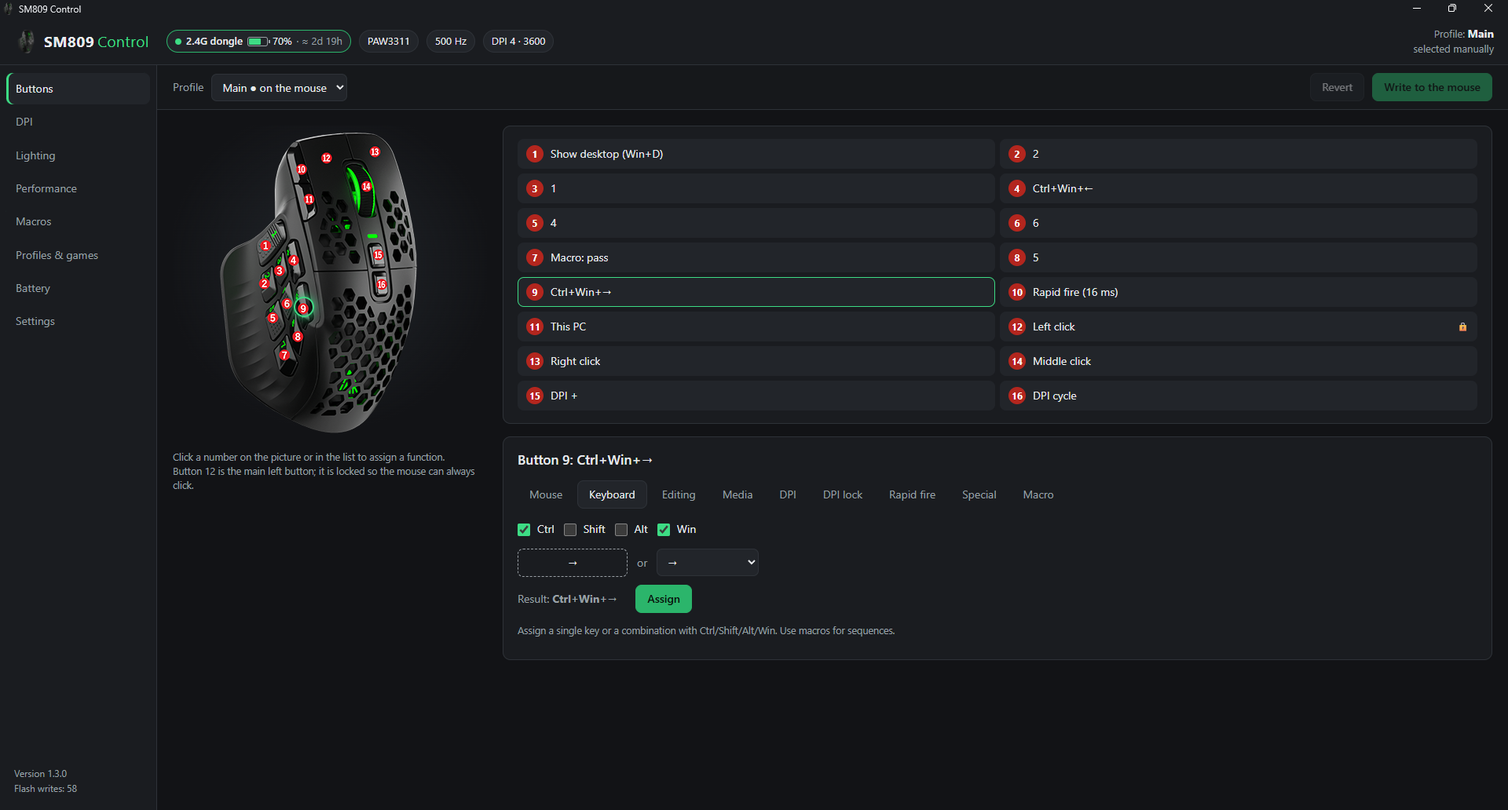
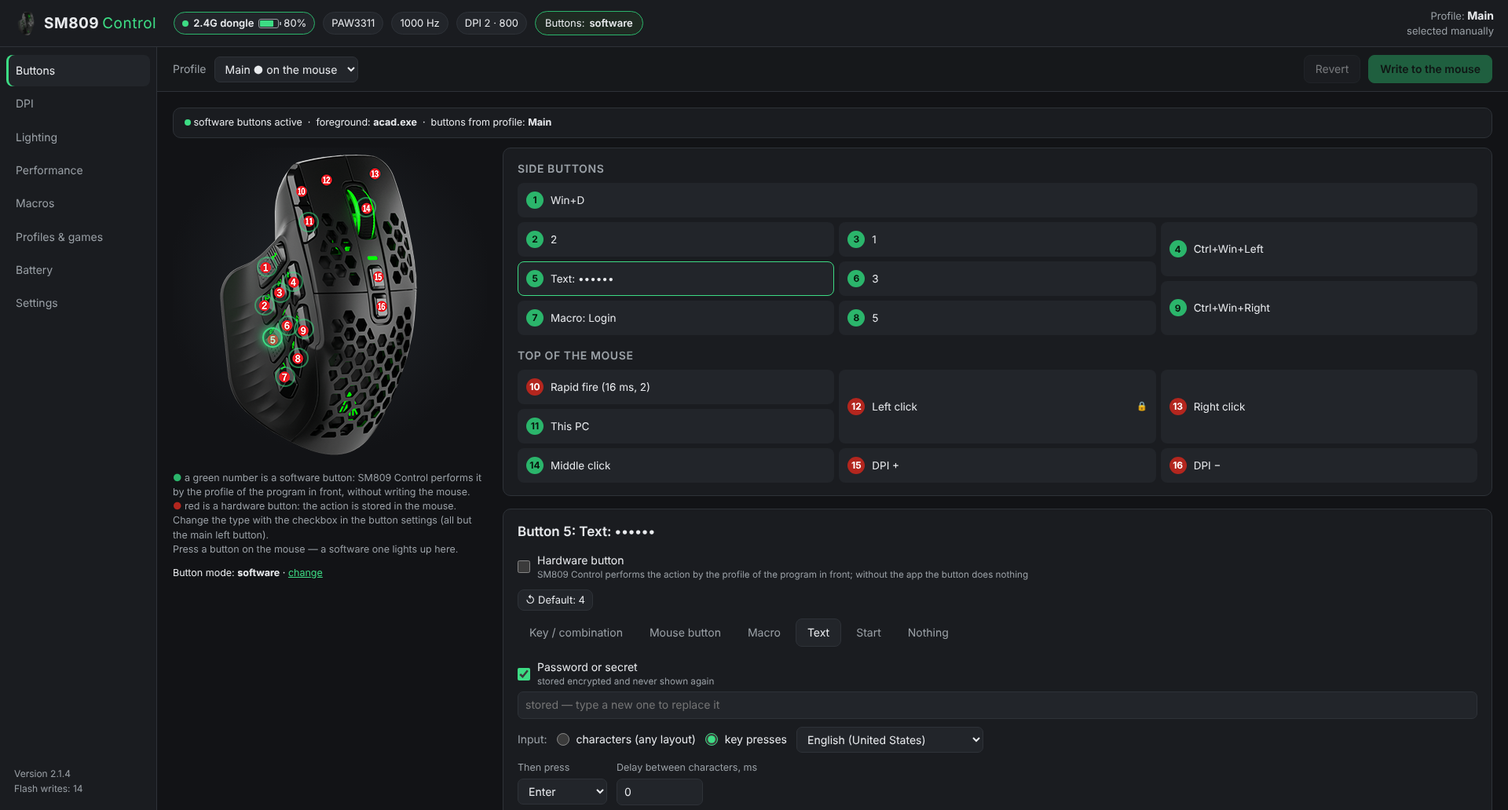
README for 2.1, versioned release exe
Rewrite the README (EN and RU) for button modes, software actions,
Bluetooth status and diagnostics, with new screenshots. CI now builds
SM809Control_vX.Y.Z.exe and attaches it when a release vX.Y.Z is
published; the tag must match appVersion.

Claude-Session: https://claude.ai/code/session_01HRDTXNdnyee7wEeQkDEGY8

diff --git a/README.md b/README.md
@@ -1,6 +1,6 @@
 # SM809 Control
 
-An unofficial, open-source configuration app for the **SM809 / SM809 Pro** gaming mouse (Beken BK3633, VID `04F3`) — a replacement for the vendor's Windows software with more features: unlimited profiles, per-game switching, an editable DPI table, a full macro editor, battery history and forecast.
+An unofficial, open-source configuration app for the **SM809 / SM809 Pro** gaming mouse (Beken BK3633, VID `04F3`). It replaces the vendor's Windows software and does more: software buttons that follow the program in front, typing passwords and starting programs from a mouse button, unlimited profiles, an editable DPI table, a full macro editor, battery history and forecast.
 
 **[Русская версия ниже ↓](#sm809-control-по-русски)**
 
@@ -10,25 +10,35 @@ An unofficial, open-source configuration app for the **SM809 / SM809 Pro** gamin
 
 ## Features
 
-- **Two button modes (2.0)** — chosen on first start, switchable any time:
-  - *Hardware* — everything is stored in the mouse, works without the app on any PC.
-  - *Software* — the buttons are handled by the app: their actions follow the program in front **instantly and without writing the mouse**; they can press any combination (Ctrl+Win+→), **type a text or a password** (Unicode or real key presses in a chosen layout, then Enter/Tab…; passwords are encrypted with Windows DPAPI), **start a program** or play a **macro without firmware limits** (with cursor moves). The mouse is written once (the buttons send keys no keyboard has: F13–F24 and three Japanese-keyboard keys (International 1, 4, 5)). Each button can be marked as a *hardware button* to keep rapid fire, DPI or a firmware macro; only the main left button always stays a hardware one. Software buttons do nothing while the app is not running (optionally the hardware layout is restored on exit).
-- **Buttons** — assign any of the 15 remappable buttons: mouse buttons, key or key combination (Ctrl/Shift/Alt/Win), media keys, editing shortcuts, DPI +/−/cycle, DPI lock (sniper), rapid fire with custom interval and count, disable, lighting toggle, macro. The main left button is locked so the mouse can never lose its click.
-- **DPI** — 1 to 6 levels, any value per level (limits and step follow the sensor, e.g. PAW3311: 200–24000 in steps of 100), a colour per level from the standard palette or any custom colour, start level.
-- **Lighting** — all 11 modes supported by the firmware.
-- **Performance** — polling rate (the list follows what the current connection supports), lift-off distance (LOD 1/2 mm — the vendor Windows app lacks it), sleep timer, wake on movement, lighting off while moving, angle snapping, Motion Sync, ripple control.
-- **Macros** — recorder (keys and mouse buttons, real or fixed delays) and a manual editor (press / release / delay, type a whole text, reorder, edit delays), three run modes like the vendor app, memory usage meter, warning about keys left pressed. Encoding matches the vendor driver exactly. (Cursor moves inside macros are not performed by the stock firmware, so the editor disables them.)
-- **Profiles** — unlimited, stored on the PC; only the current one is written to the mouse, and **only the settings that differ** (to spare the mouse flash memory).
-- **Per-program buttons** — in software mode a rule "program → profile" switches the software buttons as soon as that program's window is in front, with no flash write.
-- **Per-game profiles** (opt-in) — a profile is applied when an `.exe` starts and reverted when it exits, with an optional on-screen popup per program. Off by default, enabled only after a warning about flash wear.
-- **On-screen popups** for DPI and profile changes with a fully customisable look (position, size, colours, font, timing).
-- **Connection indicator** — wired / 2.4 GHz dongle / Bluetooth 1 / Bluetooth 2, battery and charging state.
-- **Battery** — history chart (day/week/month), drain per day, estimated time left or time to full, low-battery notifications with the estimate.
-- **Tray icon** with battery level, quick profile switching, autostart.
-- **Read settings from the mouse** (cable) — the app reads the mouse's own memory (read-only) and shows what is actually stored, compares it with the current profile and can turn it into a profile; after that only real differences are written.
-- **Experimental options** — key debounce threshold, a hidden firmware setting the vendor software does not offer (for switches that start to double-click).
-- **Backup** — export/import profiles and macros, or a full backup of all app data (profiles, settings, flash write counter, battery history) to move to another PC.
-- **English and Russian** UI; the system language is picked on first run.
+- **Two button modes.** The app asks on first start; you can switch at any time in Settings → Buttons or with the **Buttons** badge at the top. Assignments of both modes are kept.
+
+  ![Button modes](docs/screenshots/modes.png)
+
+  - *Hardware*: everything is stored in the mouse and works without the app on any PC.
+  - *Software*: SM809 Control handles the buttons. The mouse is written **once**: each button sends a key no keyboard has (F13–F24 and the Japanese-keyboard keys International 1, 4, 5). The app catches it and performs the action of the current profile. Changing actions or switching programs **never writes the mouse**.
+- **Software button actions:**
+  - any key or combination (Ctrl+Win+→…), with auto-repeat while held;
+  - any mouse button;
+  - **macros without firmware limits**: any length and delays, cursor moves; while held / N times / until pressed again;
+  - **type a text or a password**, either as characters or as real key presses in a chosen keyboard layout, then press Enter, Tab or another key. Passwords are encrypted with Windows DPAPI and never shown again;
+  - **start a program** (with arguments);
+  - nothing.
+- **Mixed buttons.** In software mode any button except the main left one can be marked *hardware button* to keep rapid fire, DPI or a firmware macro on it. The list follows the button layout of the mouse; a green number is a software button, a red number is a hardware one. Pressing a software button lights it up in the window. Every button has **Reset to default**.
+- **Buttons per program.** A rule "program → profile" switches the software buttons the instant that program's window comes to the front.
+- **Hardware buttons.** Any function on the 15 remappable buttons: mouse buttons, key or combination, media keys, editing shortcuts, DPI +/−/cycle, DPI lock (sniper), rapid fire with interval and count, disable, lighting toggle, firmware macro. The main left button is locked so the mouse can never lose its click.
+- **DPI.** 1 to 6 levels, any value per level (limits and step follow the sensor, e.g. PAW3311: 200–24000 in steps of 100), a colour per level, start level.
+- **Lighting.** All 11 modes supported by the firmware.
+- **Performance.** Polling rate (the list follows the connection), lift-off distance (LOD 1/2 mm, missing in the vendor Windows app), sleep timer, wake on movement, lighting off while moving, angle snapping, Motion Sync, ripple control.
+- **Macros.** Recorder (keys and mouse buttons, real or fixed delays) and manual editor (press / release / delay, type a whole text, reorder). Firmware macros are encoded exactly like the vendor driver does, with a memory meter; software-mode macros have no such limits.
+- **Profiles.** Unlimited, stored on the PC. Only the current one is written to the mouse, and **only the settings that differ**, to spare the flash memory.
+- **Per-game profiles** (opt-in). A profile is written to the mouse when an `.exe` starts and reverted when it exits. Off by default; turned on only after a warning about flash wear. Software buttons don't need it.
+- **On-screen popups** for DPI, profile and button-set changes with a customisable look.
+- **Connection and battery.** Cable / 2.4 GHz dongle / Bluetooth 1 / Bluetooth 2, battery and charging, also over Bluetooth. Battery history chart, drain per day, time left or time to full, low-battery notifications.
+- **Connection diagnostics.** Settings → Mouse → *Connection diagnostics…* shows what Windows exposes and what the mouse answers; save it to a file for a bug report.
+- **Read settings from the mouse** (cable). Reads the mouse memory (read-only), compares it with the current profile and can turn it into a profile.
+- **Experimental:** key debounce threshold, a hidden firmware setting for switches that start to double-click.
+- **Tray icon** with battery level and quick profile switching, autostart, **backup** of profiles and macros or of all app data.
+- **English and Russian** UI.
 
 | | |
 |---|---|
@@ -42,68 +52,82 @@ An unofficial, open-source configuration app for the **SM809 / SM809 Pro** gamin
 
 | | SM809 Control | Vendor web driver | Vendor Windows app |
 |---|---|---|---|
-| Writes to the mouse | **only the settings that changed** | buttons **and all macros** every time the page opens, on every change of any setting, even when you press the DPI button on the mouse | |
-| Reads what is actually stored in the mouse | **yes** (cable) | no | no |
-| Profiles | **unlimited**, per-game switching (opt-in) | several, manual | 3 |
+| Writes to the mouse | **only the settings that changed**; in software mode, button changes write nothing | buttons **and all macros** every time the page opens, on any change, even when you press the DPI button | |
+| Buttons per program | **instant, no flash writes** (software mode) | no | no |
+| Type text / passwords, start programs | **yes** | no | no |
+| Reads what is stored in the mouse | **yes** (cable) | no | no |
+| Profiles | **unlimited** | several, manual | 3 |
 | DPI values | any per level | any per level | fixed list |
 | Lift-off distance (LOD) | yes | yes | no |
-| Macro editor | recorder, manual editor, type a text | recorder, manual | recorder, manual |
+| Macros | recorder, editor, text; no limits in software mode | recorder, editor | recorder, editor |
 | Key debounce (hidden setting) | yes (experimental) | no | no |
-| Battery | history, drain, time left, notifications | | current % |
-| DPI / profile popups | customisable | — | fixed style |
+| Battery | history, drain, time left, notifications, also over Bluetooth | | current % |
 | Runs | tray app, no browser, no install | browser tab (WebHID) | installer |
-| Flash write counter | yes | — | — |
 
-**Why it matters.** The mouse rewrites a 4 KB flash sector for every settings command it accepts, and flash memory has a limited number of rewrites. The web driver resends all buttons and macros on almost any action — opening the page, changing the lighting, even a DPI change reported by the mouse — so a simple session costs dozens of rewrites. SM809 Control keeps track of what is already in the mouse and sends only real differences; switching to a profile that differs only in DPI is two small writes, and nothing is written at all when nothing changed.
+**Why it matters.** The mouse rewrites a 4 KB flash sector for every settings command it accepts, and flash has a limited number of rewrites. The web driver resends all buttons and macros on almost any action, so a simple session costs dozens of rewrites. SM809 Control tracks what is already in the mouse and sends only real differences. In software mode the button layout is written once and per-program buttons cost nothing at all.
 
-After using the vendor software, use **Settings → Mouse → Read settings from the mouse** (cable) or **Write the current profile in full**, because the vendor tools overwrite the mouse without telling anyone.
+After using the vendor software, use **Settings → Mouse → Read settings from the mouse** (cable) or **Write the current profile in full**: the vendor tools overwrite the mouse without telling anyone.
 
 ## Download and run
 
-Get `SM809Control.exe` from [Releases](../../releases) — a single file, no installation.
+Get `SM809Control_vX.Y.Z.exe` from [Releases](../../releases). It is a single file; no installation.
 
-- Windows 10/11 (uses the WebView2 runtime that ships with Windows; without it the UI opens in the default browser).
-- It lives in the tray. Left click opens the window, right click opens the menu.
-- The window is a separate short-lived process: when you close it, only a small background part (≈10–15 MB) keeps running for the tray, popups and per-game switching.
+- Windows 10/11. The UI uses the WebView2 runtime that ships with Windows; without it the UI opens in the default browser.
+- The app lives in the tray. Left click opens the window, right click opens the menu.
+- The window is a separate short-lived process. When you close it, only a small background part (≈10–15 MB) keeps running for the tray, popups and software buttons.
 - Do not run the vendor software or web driver at the same time.
 
-**First run.** The app has to know what is in the mouse. With the cable connected, press **“Read from the mouse”** in the yellow bar — the app reads the mouse memory (nothing is written) and from then on writes only differences; you can also save what was read as a profile. Without the cable, check the tabs and press **“Write … to the mouse”** once. Until one of these is done, per-game switching is disabled.
+**First run.**
+1. Choose the button mode (you can change it later).
+2. The app has to know what is in the mouse. With the cable connected, press **Read from the mouse** in the yellow bar: nothing is written, and from then on only differences are. Without the cable, check the tabs and press **Write … to the mouse** once.
 
-**Flash wear.** The mouse rewrites a 4 KB flash sector on every accepted command. The app sends only differences, never rewrites the mouse while a game runs, keeps per-game switching off by default and shows a write counter in Settings.
+**Notes on software mode.**
+- Software buttons do nothing while SM809 Control is not running. Turn on *Settings → Buttons → Restore the hardware layout when the app exits* if you want the mouse to work normally after closing the app (this costs one write per exit and start).
+- With a Japanese input method active, the International keys of buttons 14–16 may be seen by the IME before the app; mark those buttons as hardware if that bothers you.
+- Programs running as administrator don't receive keys from a normal-level app (Windows UIPI). Run SM809 Control as administrator if you need its actions there.
+- Switching the mode or marking a button hardware/software writes the key layout to the mouse once.
 
-Data is stored in `%APPDATA%\SM809Control` (`data.json` — profiles, macros, rules, settings; `device.json` — what is on the mouse; `battery.json` — battery history).
+Data is stored in `%APPDATA%\SM809Control` (`data.json`: profiles, macros, rules, settings; `device.json`: what is on the mouse; `battery.json`: battery history).
 
 ## Supported devices
 
-SM809 / SM809 Pro family with Elan VID `0x04F3`: PID `0x026E` (wired), `0x026F` (2.4 GHz dongle), `0x026D` (Bluetooth LE). Sensor type is read from the mouse (PAW3311, PAW3395, PAW3950 and others from the vendor table).
+SM809 / SM809 Pro family with Elan VID `0x04F3`: PID `0x026E` (wired), `0x026F` (2.4 GHz dongle), `0x026D` (Bluetooth LE). The sensor type is read from the mouse (PAW3311, PAW3395, PAW3950 and others from the vendor table).
 
 ## Building
 
 Go 1.24, from any OS:
 
 ```sh
-GOOS=windows GOARCH=amd64 go build -ldflags "-H windowsgui -s -w" -o SM809Control.exe .
+GOOS=windows GOARCH=amd64 go build -trimpath -ldflags "-H windowsgui -s -w" -o SM809Control.exe .
 ```
 
-- Dependencies (go-webview2, go-winloader, trimmed golang.org/x/sys) are vendored in `third_party/` via `replace` in `go.mod` — no network needed.
-- Icon, manifest and version info: `res/`, compiled into `rsrc_windows_amd64.syso` with `llvm-windres --target=pe-x86-64 -i res/app.rc -o rsrc_windows_amd64.syso`.
+- Dependencies (go-webview2, go-winloader, trimmed golang.org/x/sys) are vendored in `third_party/` via `replace` in `go.mod`; no network needed.
+- Icon, manifest and version info are in `res/`, compiled into `rsrc_windows_amd64.syso` with `llvm-windres --target=pe-x86-64 -i res/app.rc -o rsrc_windows_amd64.syso`.
 - The UI is plain HTML/JS/CSS in `web/`, embedded into the exe.
 
 Tests:
 
 ```sh
-go test .               # protocol encoders vs. packets captured from the vendor web driver
+go test .               # protocol encoders vs. packets captured from the vendor web driver, carrier layout
 sh linuxtest/run.sh     # engine/API logic with HID stubbed out (Linux/macOS)
 ```
+
+## Releasing
+
+1. Set the version in `main.go` (`const appVersion = "X.Y.Z"`) and in `res/app.rc`, then regenerate the `.syso`.
+2. Push to `main`.
+3. On GitHub, create a release with the tag `vX.Y.Z` (the same version).
+
+The `build` workflow runs the tests, builds `SM809Control_vX.Y.Z.exe` and attaches it to the release. It fails if the tag does not match `appVersion`. Every push and pull request also builds the exe as a workflow artifact.
 
 ## Project layout
 
 | Path | What |
 |---|---|
-| `protocol.go` | HID command encoders (keys, DPI, colours, polling, LOD, power, sensor, lighting, macros, reset) |
-| `hid.go` | HID enumeration, status reader (input report 4), command channel (feature report 6 with ack/retry) |
+| `protocol.go`, `commands.go` | HID command encoders and status parsing |
+| `hid.go` | HID enumeration, status reader (input report 4, feature report 5 polling for Bluetooth), command channel (feature report 6 with ack/retry) |
 | `engine.go` | Device state, diff-only apply queue, per-game profile stack, notifications |
-| `softbind.go`, `softkeys.go` | Button modes: carrier layout, software actions, migration |
+| `softbind.go`, `softkeys.go` | Button modes: carrier layout, software actions, validation, migration |
 | `soft_windows.go`, `soft_actions_windows.go` | Keyboard hook, SendInput, foreground window, text input, macros, starting programs, DPAPI |
 | `store.go` | Data model and persistence |
 | `battery.go` | Battery history and forecast |
@@ -111,53 +135,77 @@ sh linuxtest/run.sh     # engine/API logic with HID stubbed out (Linux/macOS)
 | `main.go`, `osd.go`, `icon.go` | Tray, on-screen popups, battery tray icon (Win32) |
 | `uihost.go` | WebView2 window process |
 | `web/` | UI |
+| `cmd/keyprobe/` | Small tool that logs the keys the mouse sends (used to verify carrier keys) |
+| `testdata/` | Key probe logs and connection diagnostics from real hardware |
 | `docs/PROTOCOL.md` | Reverse-engineered HID protocol |
+| `docs/SOFT_BINDINGS.md` | Design and test notes for software buttons |
 
 ## Protocol
 
-See [docs/PROTOCOL.md](docs/PROTOCOL.md) — status report, all commands, button codes, macro format and firmware notes.
+See [docs/PROTOCOL.md](docs/PROTOCOL.md): status report, all commands, button codes, macro format and firmware notes.
 
 ---
 
-# SM809 Control
-Неофициальная программа с открытым кодом для настройки мыши **SM809 / SM809 Pro**. Заменяет фирменную программу и умеет больше: неограниченное число профилей, переключение по играм, любые значения DPI, полноценный редактор макросов, история и прогноз заряда.
+# SM809 Control по-русски
+
+Неофициальная программа с открытым кодом для настройки мыши **SM809 / SM809 Pro**. Заменяет фирменную программу и умеет больше: программные кнопки, которые меняются вслед за активной программой, ввод паролей и запуск программ с кнопки мыши, неограниченное число профилей, любые значения DPI, полноценный редактор макросов, история и прогноз заряда.
 
 > ⚠ Программа не связана с производителем мыши. Протокол восстановлен самостоятельно, каждая команда сверена байт-в-байт с официальным веб-драйвером, но используете вы её на свой риск.
 
-**Возможности**
+## Возможности
 
-- **Два режима кнопок (2.0)** — выбирается при первом запуске, меняется в любой момент:
-  - *аппаратный* — всё хранится в мыши, работает без программы на любом компьютере;
-  - *программный* — кнопки обрабатывает программа: их действия переключаются по активному окну **мгновенно и без записи в мышь**; можно назначить любое сочетание (Ctrl+Win+→), **ввод текста или пароля** (символами или нажатиями клавиш в выбранной раскладке, затем Enter/Tab…; пароли шифруются средствами Windows), **запуск программы**, **макрос без ограничений прошивки** (с движением курсора). Мышь записывается один раз (кнопки шлют клавиши, которых нет на обычной клавиатуре: F13–F24 и три клавиши японской клавиатуры (International 1, 4, 5)). Любую кнопку можно отметить «аппаратной», чтобы оставить огонь, DPI или макрос прошивки; всегда аппаратная только основная левая. Без запущенной программы программные кнопки молчат (по желанию при выходе возвращается аппаратная раскладка).
-- **Кнопки:** любая функция на 15 переназначаемых кнопок — кнопки мыши, клавиша или сочетание, мультимедиа, правка, DPI, фиксация DPI, «огонь», отключение, подсветка, макрос. Основная левая кнопка заблокирована.
-- **DPI:** 1–6 уровней с любыми значениями, цвет каждого уровня из стандартной палитры или любой свой, стартовый уровень.
+- **Два режима кнопок.** Программа спрашивает при первом запуске; режим меняется в любой момент в «Настройки → Кнопки» или значком «Кнопки» вверху. Назначения обоих режимов сохраняются.
+  - *Аппаратный*: всё хранится в мыши и работает без программы на любом компьютере.
+  - *Программный*: кнопки обрабатывает SM809 Control. Мышь записывается **один раз**: каждая кнопка шлёт клавишу, которой нет на обычной клавиатуре (F13–F24 и клавиши японской клавиатуры International 1, 4, 5). Программа перехватывает её и выполняет действие текущего профиля. Смена действий и переключение программ **не пишут в мышь**.
+- **Действия программных кнопок:**
+  - любая клавиша или сочетание (Ctrl+Win+→…), с повтором при удержании;
+  - любая кнопка мыши;
+  - **макросы без ограничений прошивки**: любой длины и с любыми задержками, с движением курсора; пока нажата / N раз / до повторного нажатия;
+  - **ввод текста или пароля** символами или настоящими нажатиями клавиш в выбранной раскладке, затем Enter, Tab или другая клавиша. Пароли шифруются средствами Windows (DPAPI) и больше не показываются;
+  - **запуск программы** (с аргументами);
+  - ничего.
+- **Смешанные кнопки.** В программном режиме любую кнопку, кроме основной левой, можно отметить «аппаратной», чтобы оставить на ней огонь, DPI или макрос прошивки. Список повторяет расположение кнопок на мыши: зелёный номер — программная кнопка, красный — аппаратная. Нажатая программная кнопка подсвечивается в окне. У каждой кнопки есть «По умолчанию».
+- **Кнопки по программам.** Правило «программа → профиль» переключает программные кнопки в момент, когда окно программы становится активным.
+- **Аппаратные кнопки:** любая функция на 15 переназначаемых кнопок — кнопки мыши, клавиша или сочетание, мультимедиа, правка, DPI, фиксация DPI, «огонь», отключение, подсветка, макрос прошивки. Основная левая кнопка заблокирована.
+- **DPI:** 1–6 уровней с любыми значениями, цвет каждого уровня, стартовый уровень.
 - **Подсветка:** все 11 режимов прошивки.
 - **Производительность:** частота опроса, высота отрыва LOD (её нет в фирменной программе), сон, пробуждение движением, angle snapping, Motion Sync, Ripple.
-- **Макросы:** запись и ручной редактор, ввод целого текста, три режима повтора, индикатор памяти. Кодирование совпадает с официальным драйвером. Сдвиг курсора в макросах заводская прошивка не выполняет, поэтому он отключён.
+- **Макросы:** запись и ручной редактор, ввод целого текста. Макросы прошивки кодируются точно как в официальном драйвере, с индикатором памяти; у макросов программного режима этих ограничений нет.
 - **Профили:** без ограничения количества, хранятся на компьютере. В мышь пишется только то, что отличается.
-- **Кнопки по программам:** в программном режиме правило «программа → профиль» переключает программные кнопки, как только окно программы становится активным, без записи в мышь.
-- **Переключение по играм:** профиль включается при запуске exe и возвращается при выходе. По умолчанию выключено и включается только после предупреждения об износе флеш-памяти.
-- **Всплывающие окна** DPI и профиля с настройкой внешнего вида.
-- **Индикатор подключения:** провод, донгл, BT1, BT2; заряд.
-- **Батарея:** график, расход в сутки, прогноз остатка и времени до полной зарядки.
-- **Чтение настроек из мыши** (по кабелю) — программа читает собственную память мыши (только чтение), показывает, что в ней реально записано, сравнивает с профилем и может сделать из этого профиль.
-- **Экспериментальные опции** — антидребезг кнопок, скрытая настройка прошивки (на случай, если кнопки начнут даблкликать).
-- **Трей, автозапуск, резервная копия всех данных** для переноса на другой ПК.
+- **Переключение по играм** (по желанию): профиль записывается в мышь при запуске exe и возвращается при выходе. По умолчанию выключено и включается только после предупреждения об износе флеш-памяти. Программным кнопкам оно не нужно.
+- **Всплывающие окна** DPI, профиля и набора кнопок с настройкой внешнего вида.
+- **Подключение и батарея:** провод, донгл, BT1, BT2, заряд — в том числе по Bluetooth. График заряда, расход в сутки, прогноз остатка и времени до полной зарядки, уведомления.
+- **Диагностика подключения:** «Настройки → Мышь → Диагностика подключения…» показывает, что видит Windows и что отвечает мышь; можно сохранить в файл для отчёта об ошибке.
+- **Чтение настроек из мыши** (по кабелю): только чтение, сравнение с профилем, можно сделать из этого профиль.
+- **Экспериментальное:** антидребезг кнопок — скрытая настройка прошивки на случай даблкликов.
+- **Трей, автозапуск, резервная копия** профилей и макросов или всех данных.
 - **Русский и английский** интерфейс.
 
-**Чем лучше фирменных программ**
+## Чем лучше фирменных программ
 
-- **Бережёт память мыши.** Мышь перезаписывает сектор флеш-памяти на каждую принятую команду, а ресурс перезаписи у флеша ограничен. Веб-драйвер заново записывает все кнопки и все макросы почти на любое действие: при открытии страницы, при изменении любой настройки, даже когда мышь сообщает о смене DPI кнопкой. SM809 Control помнит, что уже записано в мышь, и отправляет только реальные отличия; если ничего не изменилось — не пишет ничего.
-- **Читает настройки из самой мыши** (по кабелю) — фирменные программы этого не умеют.
-- **Профилей без ограничений** (в фирменной программе — 3) и переключение по играм.
-- **Любые значения DPI** (в фирменной программе — фиксированный список) и **LOD**, которого нет в фирменной программе.
-- **Ввод текста** в макросах, **антидребезг кнопок**, **история и прогноз заряда**, настраиваемые всплывающие окна, счётчик записей во флеш.
+- **Бережёт память мыши.** Мышь перезаписывает сектор флеш-памяти на каждую принятую команду, а ресурс перезаписи ограничен. Веб-драйвер заново пишет все кнопки и макросы почти на любое действие. SM809 Control помнит, что уже записано, и отправляет только реальные отличия. В программном режиме раскладка пишется один раз, а кнопки по программам не стоят ничего.
+- **Кнопки по программам, ввод паролей, запуск программ** — в фирменных программах этого нет.
+- **Читает настройки из самой мыши** (по кабелю).
+- **Профилей без ограничений** (в фирменной программе — 3), **любые значения DPI** и **LOD**.
+- **Антидребезг кнопок, история и прогноз заряда** (и по Bluetooth), настраиваемые всплывающие окна, счётчик записей во флеш.
 - Работает в трее, без браузера и без установки.
 
-После работы в фирменной программе или веб-драйвере прочитайте настройки из мыши по кабелю или запишите профиль целиком — они перезаписывают мышь, никого не предупреждая.
+После работы в фирменной программе или веб-драйвере прочитайте настройки из мыши по кабелю или запишите профиль целиком: они перезаписывают мышь, никого не предупреждая.
 
-**Запуск:** скачайте `SM809Control.exe` в [Releases](../../releases). Установка не нужна, программа работает в трее. Не запускайте одновременно с фирменной программой или веб-драйвером.
+## Запуск
 
-**Первый запуск:** программе нужно знать, что записано в мыши. Подключите кабель и нажмите «Прочитать из мыши» в жёлтой полосе — ничего не записывается, дальше пишутся только отличия. Без кабеля — один раз запишите профиль целиком.
+Скачайте `SM809Control_vX.Y.Z.exe` в [Releases](../../releases). Установка не нужна, программа работает в трее. Не запускайте одновременно с фирменной программой или веб-драйвером.
 
-**Сборка:** см. раздел [Building](#building) выше.
+**Первый запуск.**
+1. Выберите режим кнопок (его можно поменять потом).
+2. Программе нужно знать, что записано в мыши. Подключите кабель и нажмите «Прочитать из мыши» в жёлтой полосе: ничего не записывается, дальше пишутся только отличия. Без кабеля один раз запишите профиль целиком.
+
+**Про программный режим.**
+- Без запущенной программы программные кнопки молчат. Включите «Настройки → Кнопки → При выходе из программы возвращать аппаратную раскладку», если мышь должна работать как обычно после закрытия программы (одна запись при каждом выходе и запуске).
+- При включённом японском методе ввода клавиши International на кнопках 14–16 может перехватывать IME раньше программы; если мешает, отметьте эти кнопки аппаратными.
+- Программы, запущенные от администратора, не получают нажатия от обычной программы (ограничение Windows UIPI). Чтобы действия работали в них, запустите SM809 Control от администратора.
+- Смена режима или типа кнопки один раз записывает раскладку в мышь.
+
+Данные хранятся в `%APPDATA%\SM809Control`.
+
+**Сборка и выпуск:** см. разделы [Building](#building) и [Releasing](#releasing) выше. Чтобы выпустить версию, создайте на GitHub релиз с тегом `vX.Y.Z`, совпадающим с `appVersion`: сборка сама приложит `SM809Control_vX.Y.Z.exe`.
